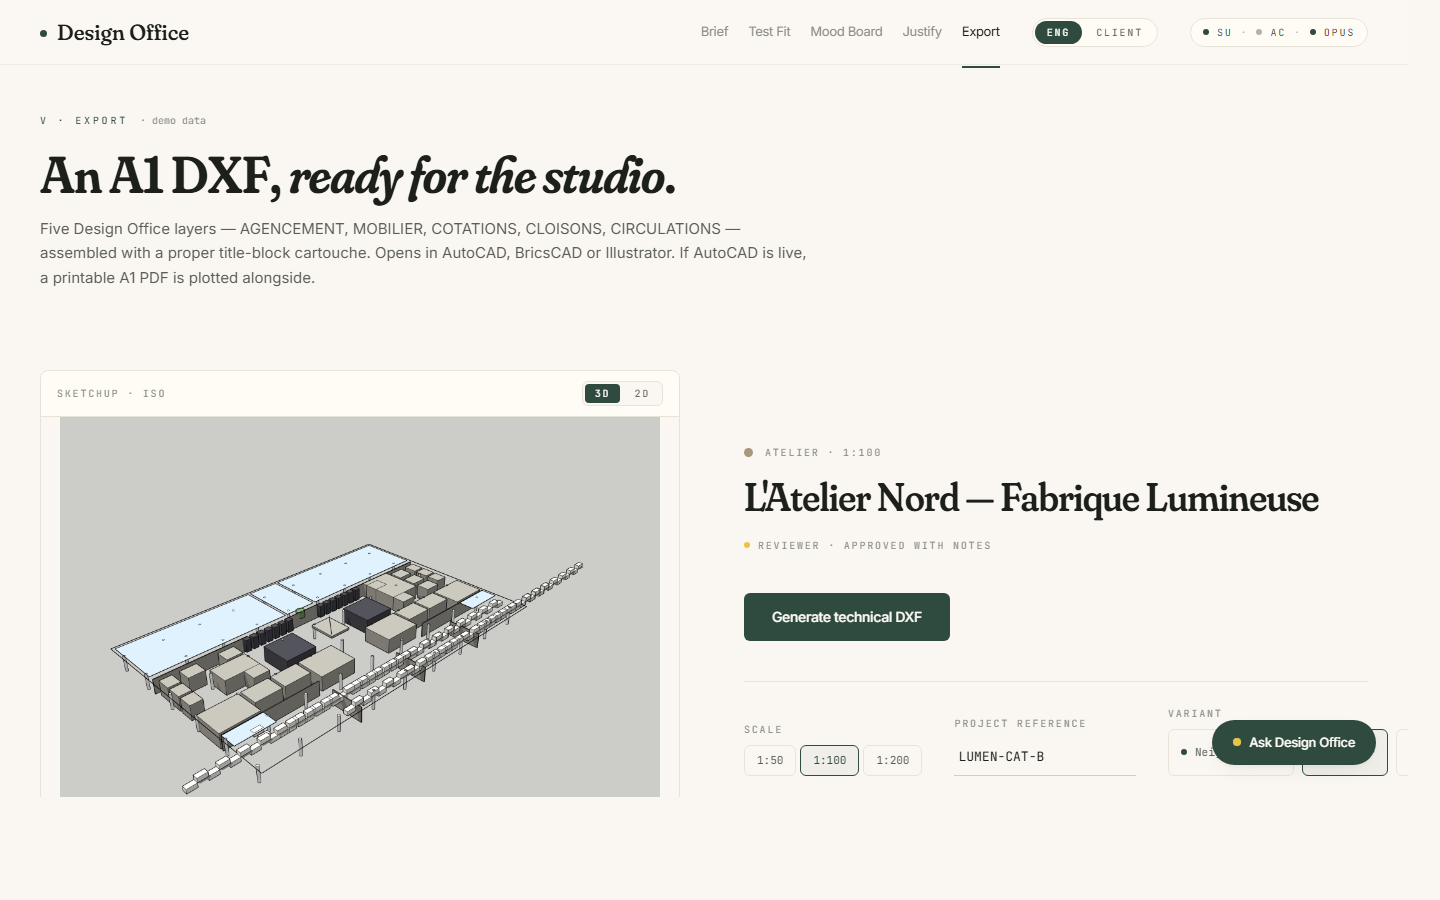
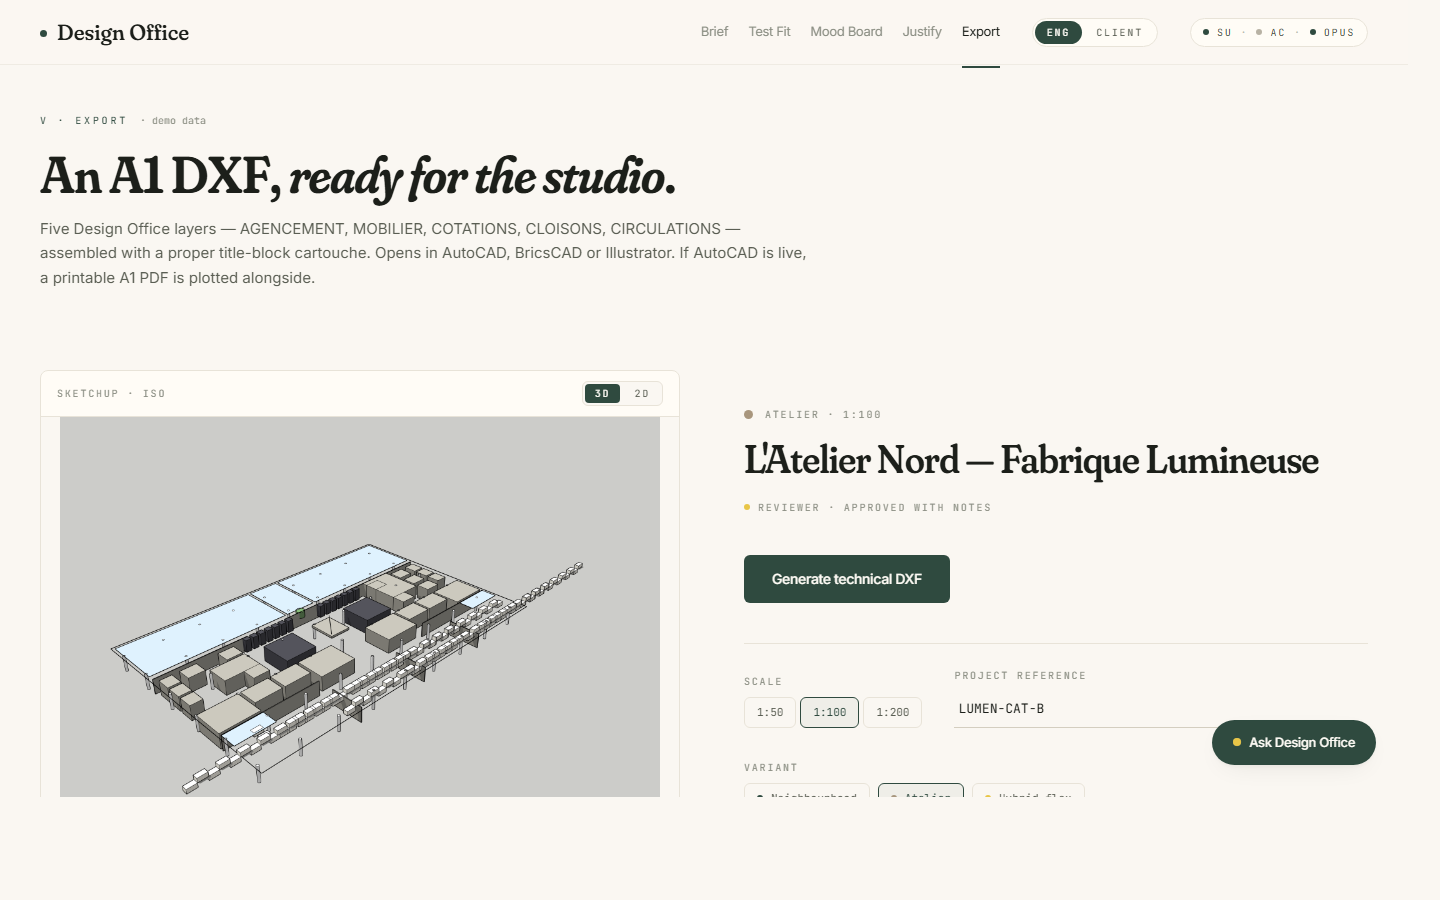
fix(export): Variant pill row wraps instead of overflowing at 1440px
Visual sweep caught /export scrolling horizontally at 1440 viewport —
scrollWidth was 1491px, 51px beyond the canvas. Traced the cause to
the knobs row on the Export page: the Scale + Project reference +
Variant groups share a `flex flex-wrap` parent, but the Variant
sub-group was `flex-1 min-w-[200px]` while its three pills
(Neighbourhood / Atelier / Hybrid flex) combined to ~306px on a single
line — so flex-wrap never kicked in and the chips bled past the
column.

Two small fixes in the Variant block:
- Inner pill container gets `flex-wrap` so pills can break to a second
  row inside the column.
- Outer div changes from `flex-1 min-w-[200px]` to `min-w-0 basis-full
  sm:basis-auto sm:flex-1 sm:min-w-[180px]` so below the `sm` breakpoint
  the Variant block takes the full row on its own line, and above it
  sits alongside Scale / Project reference naturally.

After fix: /export scrollWidth 1491 → 1425 at 1440 viewport (0 overflow).
tsc clean. Export screenshot re-captured.

Visual sweep of all seven routes also confirms no other overflows,
no undefined strings, and every h1 renders.

diff --git a/frontend/src/routes/Export.tsx b/frontend/src/routes/Export.tsx
@@ -277,9 +277,9 @@ export default function ExportRoute() {
                         className="input-line mt-2 w-full font-mono text-[13px] text-ink"
                       />
                     </div>
-                    <div className="flex-1 min-w-[200px]">
+                    <div className="min-w-0 basis-full sm:basis-auto sm:flex-1 sm:min-w-[180px]">
                       <p className="label-xs text-ink-muted">Variant</p>
-                      <div className="mt-2 flex gap-2">
+                      <div className="mt-2 flex flex-wrap gap-2">
                         {variants.map((v) => (
                           <button
                             key={v.style}
